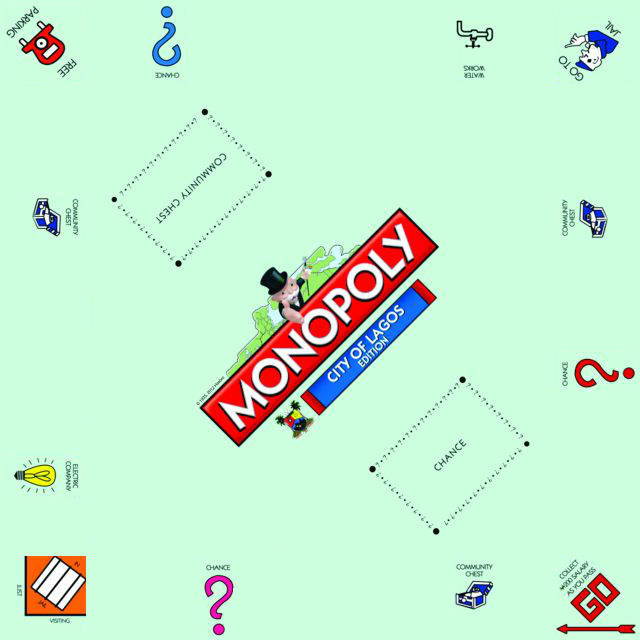
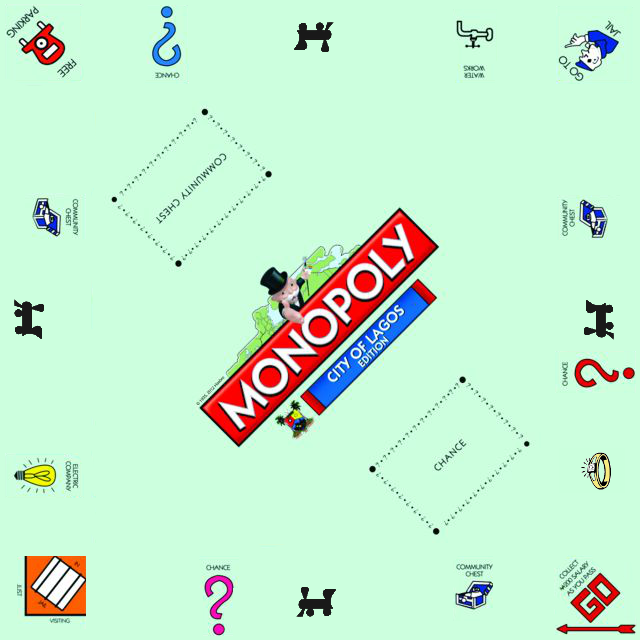
got the properties displaying when bought

diff --git a/monopoly.js b/monopoly.js
@@ -36,7 +36,7 @@ var monopoly = {
   buyPropertyListener: function(){
       monopoly.removePropertyListeners();
       monopoly.currentPlayer().buyProperty(monopoly.properties[monopoly.currentPlayer().position])
-      monopoly.currentPlayer().refreshPropertyDisplay();
+      monopoly.currentPlayer().refreshPlayerDisplay();
       monopoly.nextPlayer();
     },
 
@@ -68,8 +68,8 @@ var monopoly = {
     var me = this;
 
     //remove this stuff for real game
-    this.playerEntries[0].value = "Justin";
-    this.playerEntries[1].value = "Cat"
+    // this.playerEntries[0].value = "Justin";
+    // this.playerEntries[1].value = "Cat"
     ////////////////////////////////////////////
 
     me.defProperties();
@@ -90,7 +90,7 @@ var monopoly = {
       me.playGame();
     });
     //remove this stuff for real game
-     monopoly.startGame.click();
+     // monopoly.startGame.click();
     ////////////////////////////////////////////    
 
     this.addPlayer.addEventListener("click", function(){
@@ -123,7 +123,7 @@ var monopoly = {
   rollDice: function(){
     var diceListener = function(){
           var diceRoll = Math.floor(Math.random() * (12 - 2 + 1) + 2);
-          //diceRoll = 4;
+          //diceRoll = 8;
           monopoly.writeToOutputLog('You rolled a ' + diceRoll + '!');
           monopoly.phase = 'movePiece';
           monopoly.movePiece(diceRoll);
@@ -175,20 +175,20 @@ var monopoly = {
     }else if (monopoly.properties[monopoly.currentPlayer().position].status == 'go'){
       monopoly.writeToOutputLog("Property is Go and not available for purchase" );
     }else if (monopoly.properties[monopoly.currentPlayer().position].status == 'go_to_jail'){
-      
+      monopoly.nextPlayer();
     }else if (monopoly.properties[monopoly.currentPlayer().position].status == 'jail'){
-      
+      monopoly.nextPlayer();
     }else if (monopoly.properties[monopoly.currentPlayer().position].status == 'chance'){
-      
+      monopoly.nextPlayer();
     }else if (monopoly.properties[monopoly.currentPlayer().position].status == 'community_chest'){
-      
+      monopoly.nextPlayer();
     }else if (monopoly.properties[monopoly.currentPlayer().position].status == 'free_parking'){
-      
+      monopoly.nextPlayer();
     }else if (monopoly.properties[monopoly.currentPlayer().position].status == 'income_tax'){
       monopoly.addIncomeTaxPercentageListener();
       monopoly.addIncomeTax200DollarsListener();
     }else if (monopoly.properties[monopoly.currentPlayer().position].status == 'luxury_tax'){
-          
+      monopoly.nextPlayer();
     }else{
       monopoly.writeToOutputLog("Property is not available for purchase" );
       monopoly.nextPlayer();
@@ -225,9 +225,10 @@ var monopoly = {
   setupPlayers: function(){ 
     monopoly.writeToOutputLog(this.numberOfPlayers + " players are joining");
     for (var i = 0; i < this.numberOfPlayers; ++i) {
-      this.playersArray[i] = new this.Player(this.playerEntries[i].value, i);  
+      this.playersArray[i] = new this.Player(this.playerEntries[i].value, i, i);  
       monopoly.propertyPieceBoxes[monopoly.properties[0].piecePosition].innerHTML = monopoly.propertyPieceBoxes[monopoly.properties[0].piecePosition].innerHTML + monopoly.pieces[monopoly.playersArray[i].piece].htmlCode;
       monopoly.writeToOutputLog("Player " + this.playersArray[i].name + " has joined the game.");
+      this.playersArray[i].refreshPlayerDisplay();
     };
     
   },
@@ -251,12 +252,13 @@ var monopoly = {
     };
   },
 
-  Player: function(name, piece){
+  Player: function(name, piece, order){
     this.name = name;
     this.cash = monopoly.startingMoney;
     this.piece = piece;
     this.position = 0; //Position on board 0 -> 39
-    this.ownedProperties = [];
+    this.order = order;
+    //this.ownedProperties = [];
     this.divPosition = function(){
       return monopoly.propertyPieceBoxes[monopoly.properties[this.position].piecePosition];
     };
@@ -267,15 +269,28 @@ var monopoly = {
     this.buyProperty = function(property){
       property.status = 'owned';
       property.owner = monopoly.playersTurn;
-      this.ownedProperties.push(monopoly.currentPlayer().position);
+      //this.ownedProperties.push(monopoly.currentPlayer().position);
       this.cash -= property.cost;
       monopoly.writeToOutputLog(this.name + " now has " + this.cash + "dollars.");
     };
-    this.refreshPropertyDisplay = function(){
-      this.propertyBox = document.getElementById("player" + this.position + '_list');
-      for (var i = 0; i < this.ownedProperties.length; i++) {
-        monopoly.writeToOutputLog(this.name + ' has purchased ' + monopoly.properties[this.ownedProperties[i]].name + '.');
+    this.refreshPlayerDisplay = function(){
+      this.propertyBox = document.getElementById("player" + this.order + "_list");
+      temphtml = "<li class = '" + "'> " + this.name + " [$" + this.cash + "]</li>"
+      for (var i = 0; i < this.ownedProperties().length; i++) {
+        temphtml = temphtml +  "<li id = '" + this.ownedProperties()[i].piecePosition + "' class = 'player_list_" + this.ownedProperties()[i].group + "'> " + this.ownedProperties()[i].name + "</li>"
       };
+      this.propertyBox.innerHTML = temphtml;
+    };
+    this.ownedProperties = function(){
+      props = [];
+      for (var i = 0; i < monopoly.properties.length; i++) {
+        if (monopoly.properties[i].owner != undefined){
+          if(monopoly.playersArray[monopoly.properties[i].owner] == this){
+            props.push(monopoly.properties[i]);
+          };
+        };
+      };
+      return props;
     };
     this.payIncomeTaxPercentage = function(){
       this.cash -= (this.cash * .1);
@@ -336,53 +351,53 @@ var monopoly = {
 
   defProperties: function(){
     monopoly.properties[0] = new this.Property("Go",0, 0 ,"non-property", 39); monopoly.properties[0].status = 'go';
-    monopoly.properties[1] = new this.Property("Mediterranean Ave.",60, 2 ,"Purple", 38);
+    monopoly.properties[1] = new this.Property("Mediterranean Ave.",60, 2 ,"purple", 38);
     monopoly.properties[2] = new this.Property("Community Chest",0, 0 ,"non-property", 37); monopoly.properties[2].status = 'community_chest';
-    monopoly.properties[3] = new this.Property("Baltic Ave.",60, 4 ,"Purple", 36);
+    monopoly.properties[3] = new this.Property("Baltic Ave.",60, 4 ,"purple", 36);
     monopoly.properties[4] = new this.Property("Income Tax",0, 0 ,"non-property", 35); monopoly.properties[4].status = 'income_tax';
     //5
-    monopoly.properties[6] = new this.Property("Oriental Ave.",100 , 6 ,"Light-Green", 33);
+    monopoly.properties[6] = new this.Property("Oriental Ave.",100 , 6 ,"teal", 33);
     monopoly.properties[7] = new this.Property("Chance",0, 0 ,"non-property", 32); monopoly.properties[7].status = 'chance';
-    monopoly.properties[8] = new this.Property("Vermont Ave.",100 , 6 ,"Light-Green", 31);
-    monopoly.properties[9] = new this.Property("Connecticut Ave.",120 , 8 ,"Light-Green", 30);
+    monopoly.properties[8] = new this.Property("Vermont Ave.",100 , 6 ,"teal", 31);
+    monopoly.properties[9] = new this.Property("Connecticut Ave.",120 , 8 ,"teal", 30);
     monopoly.properties[10] = new this.Property("Jail",0, 0 ,"non-property", 29); monopoly.properties[10].status = 'jail';
-    monopoly.properties[11] = new this.Property("St. Charles Place",140 , 10,"Violet", 19);
+    monopoly.properties[11] = new this.Property("St. Charles Place",140 , 10,"maroon", 19);
     //12
-    monopoly.properties[13] = new this.Property("States Ave.",140 , 10,"Violet", 17);
-    monopoly.properties[14] = new this.Property("Virginia Ave.",160 , 12,"Violet", 16);
+    monopoly.properties[13] = new this.Property("States Ave.",140 , 10,"maroon", 17);
+    monopoly.properties[14] = new this.Property("Virginia Ave.",160 , 12,"maroon", 16);
     //15
-    monopoly.properties[16] = new this.Property("St. James Place",180 , 14,"Orange", 14);
+    monopoly.properties[16] = new this.Property("St. James Place",180 , 14,"orange", 14);
     monopoly.properties[17] = new this.Property("Community Chest",0, 0 ,"non-property", 13); monopoly.properties[17].status = 'community_chest';
-    monopoly.properties[18] = new this.Property("Tennessee Ave.",180 , 14,"Orange", 12);
-    monopoly.properties[19] = new this.Property("New York Ave.",200 , 16,"Orange", 11);
+    monopoly.properties[18] = new this.Property("Tennessee Ave.",180 , 14,"orange", 12);
+    monopoly.properties[19] = new this.Property("New York Ave.",200 , 16,"orange", 11);
     monopoly.properties[20] = new this.Property("Free Parking",0, 0 ,"non-property", 0); monopoly.properties[20].status = 'free_parking';
-    monopoly.properties[21] = new this.Property("Kentucky Ave.",220 , 18,"Red", 1);
+    monopoly.properties[21] = new this.Property("Kentucky Ave.",220 , 18,"red", 1);
     monopoly.properties[22] = new this.Property("Chance",0, 0 ,"non-property", 2); monopoly.properties[22].status = 'chance';
-    monopoly.properties[23] = new this.Property("Indiana Ave.",220 , 18,"Red", 3);
-    monopoly.properties[24] = new this.Property("Illinois Ave.",240 , 20,"Red", 4);
+    monopoly.properties[23] = new this.Property("Indiana Ave.",220 , 18,"red", 3);
+    monopoly.properties[24] = new this.Property("Illinois Ave.",240 , 20,"red", 4);
     //25
-    monopoly.properties[26] = new this.Property("Atlantic Ave.",260 , 22,"Yellow", 6);
-    monopoly.properties[27] = new this.Property("Ventnor Ave.",260 , 22,"Yellow", 7);
+    monopoly.properties[26] = new this.Property("Atlantic Ave.",260 , 22,"yellow", 6);
+    monopoly.properties[27] = new this.Property("Ventnor Ave.",260 , 22,"yellow", 7);
     //28
-    monopoly.properties[29] = new this.Property("Marvin Gardens",280 , 22,"Yellow", 9);
+    monopoly.properties[29] = new this.Property("Marvin Gardens",280 , 22,"yellow", 9);
     monopoly.properties[30] = new this.Property("Go to Jail",0, 0 ,"non-property", 10); monopoly.properties[30].status = 'go_to_jail';
-    monopoly.properties[31] = new this.Property("Pacific Ave.",300 , 26,"Dark-Green", 20);
-    monopoly.properties[32] = new this.Property("North Carolina Ave.",300 , 26,"Dark-Green", 21);
+    monopoly.properties[31] = new this.Property("Pacific Ave.",300 , 26,"green", 20);
+    monopoly.properties[32] = new this.Property("North Carolina Ave.",300 , 26,"green", 21);
     monopoly.properties[33] = new this.Property("Community Chest",0, 0 ,"non-property", 22); monopoly.properties[33].status = 'community_chest';
-    monopoly.properties[34] = new this.Property("Pennsylvania Ave.",320 , 28,"Dark-Green", 23);
+    monopoly.properties[34] = new this.Property("Pennsylvania Ave.",320 , 28,"green", 23);
     //35
     monopoly.properties[36] = new this.Property("Chance",0, 0 ,"non-property", 25); monopoly.properties[36].status = 'chance';
-    monopoly.properties[37] = new this.Property("Park Place",350 , 35,"Dark-Blue", 26);
+    monopoly.properties[37] = new this.Property("Park Place",350 , 35,"blue", 26);
     monopoly.properties[38] = new this.Property("Luxury Tax",0, 0 ,"non-property", 27); monopoly.properties[38].status = 'luxury_tax';
-    monopoly.properties[39] = new this.Property("Boardwalk",400 , 50,"Dark-Blue", 28);
+    monopoly.properties[39] = new this.Property("Boardwalk",400 , 50,"blue", 28);
 
-    monopoly.properties[12] = new this.Property("Electric Company",150 , -1 ,"Utility", 18);
-    monopoly.properties[28] = new this.Property("Water Works",150 , -1 ,"Utility", 8);
+    monopoly.properties[12] = new this.Property("Electric Company",150 , -1 ,"utility", 18);
+    monopoly.properties[28] = new this.Property("Water Works",150 , -1 ,"utility", 8);
 
-    monopoly.properties[5] = new this.Property("Reading Railroad",200 , -2,"Railroad", 34);
-    monopoly.properties[15] = new this.Property("Pennsylvania Railroad",200 , -2,"Railroad", 15);
-    monopoly.properties[25] = new this.Property("B. & O. Railroad",200 , -2,"Railroad", 5);
-    monopoly.properties[35] = new this.Property("Short Line Railroad",200 , -2,"Railroad", 24);
+    monopoly.properties[5] = new this.Property("Reading Railroad",200 , -2,"railroad", 34);
+    monopoly.properties[15] = new this.Property("Pennsylvania Railroad",200 , -2,"railroad", 15);
+    monopoly.properties[25] = new this.Property("B. & O. Railroad",200 , -2,"railroad", 5);
+    monopoly.properties[35] = new this.Property("Short Line Railroad",200 , -2,"railroad", 24);
 
 
   }

diff --git a/monopoly_board.css b/monopoly_board.css
@@ -105,6 +105,12 @@
   width: 25px;
   float: left;
 }
+
+.player_list li{
+  list-style: none;
+  text-align: center;
+  margin: 2px;
+}
 /*
 .piece_box{
   min-height: 20px;
@@ -126,6 +132,8 @@
   height: 20px;
   float: left;
 }
+
+
 
 .purple{
   background-color: purple;
@@ -165,5 +173,43 @@
 .blue{
   background-color: blue;
   border-right: 1px solid black;  
+}
+
+
+
+.player_list_railroad{
+  background-color: lightgray;
+}
+
+.player_list_purple{
+  border: 2px solid purple;
+}
+
+.player_list_teal{
+  border: 2px solid teal;
+}
+
+.player_list_yellow{
+  border: 2px solid yellow;
+}
+
+.player_list_maroon{
+  border: 2px solid maroon; 
+}
+
+.player_list_orange{
+  border: 2px solid orange;  
+}
+
+.player_list_red{
+  border: 2px solid red;  
+}
+
+.player_list_green{
+  border: 2px solid green;  
+}
+
+.player_list_blue{
+  border: 2px solid blue;  
 }
 

diff --git a/monopoly.css b/monopoly.css
@@ -118,6 +118,7 @@
   font-weight:bold;
   padding:6px 24px;
   text-decoration:none;
+  text-align: center;
   text-shadow:1px 1px 0px #287ace;
 }#action_button:hover {
   background:-webkit-gradient( linear, left top, left bottom, color-stop(0.05, #4197ee), color-stop(1, #79bbff) );
